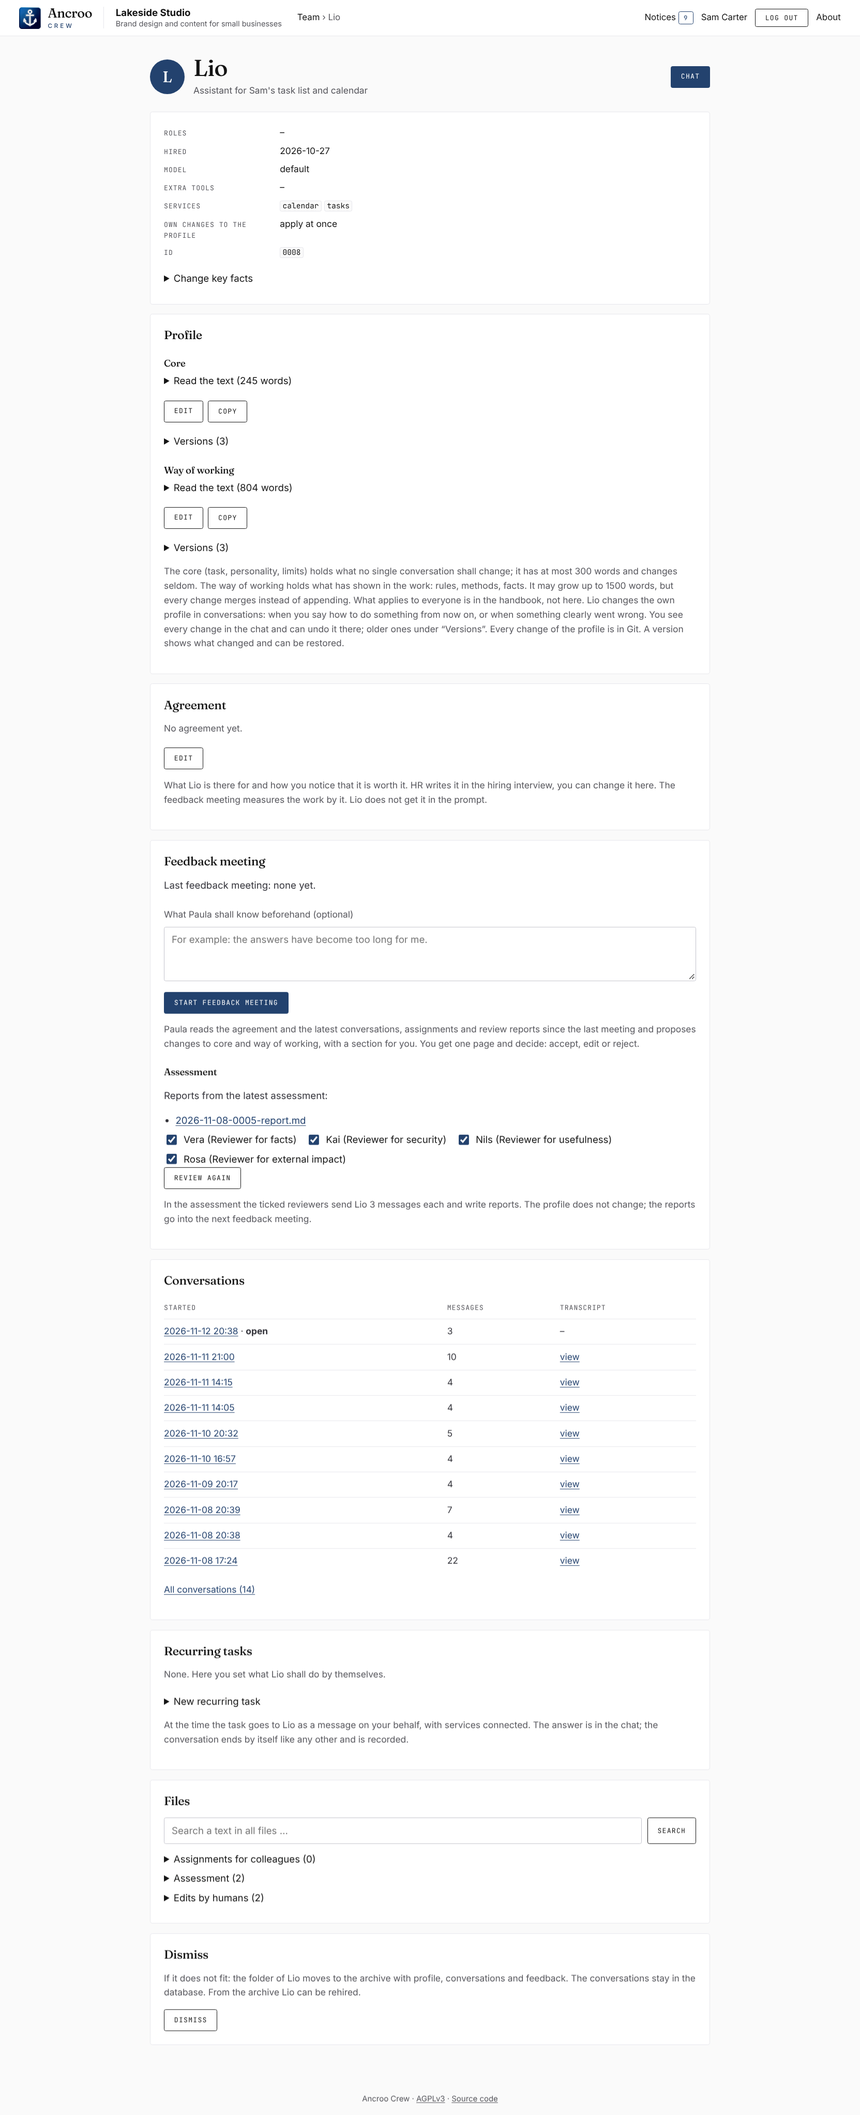
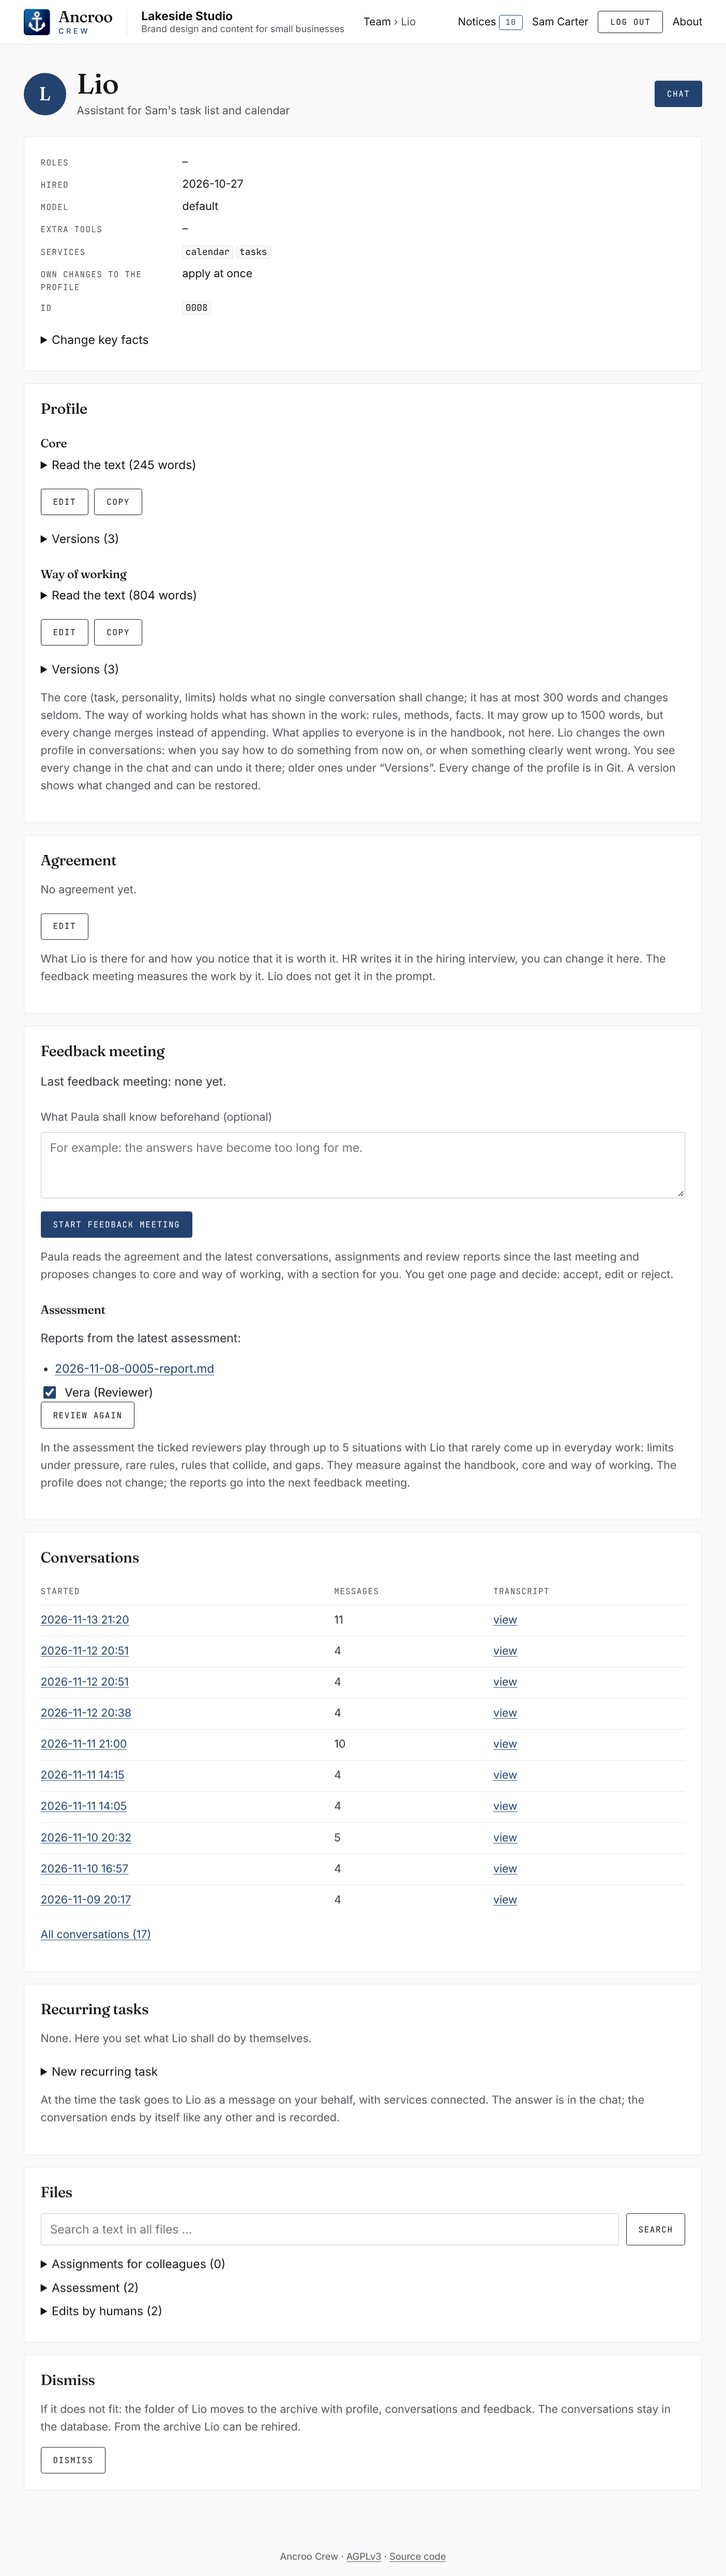
docs: update screenshots for the single reviewer
🤖 Generated with [Claude Code](https://claude.com/claude-code)

diff --git a/README.md b/README.md
@@ -83,8 +83,11 @@ With a VPN that serves HTTPS, or with a reverse proxy, pass the `Host` header th
 5. **Hire for a real need.** Once HR is in place, "Hiring interview" lets HR find out what you need and write a draft profile, which you hire from its card.
 
 <p>
-  <a href="assets/screenshots/ancroo-crew-chat-any-todos.png"><img src="assets/screenshots/ancroo-crew-chat-any-todos.png" alt="A conversation with the assistant Lio, who reads the calendar and the open tasks from the task list service" width="400"></a>
   <a href="assets/screenshots/ancroo-crew-ai-employee.png"><img src="assets/screenshots/ancroo-crew-ai-employee.png" alt="The card of the AI employee Lio: key facts, profile, agreement, feedback meeting and conversations" width="400"></a>
+</p>
+
+<p>
+  <a href="assets/screenshots/ancroo-crew-chat-any-todos.png"><img src="assets/screenshots/ancroo-crew-chat-any-todos.png" alt="A conversation with the assistant Lio, who reads the calendar and the open tasks from the task list service" width="400"></a>
 </p>
 
 ## Documentation
